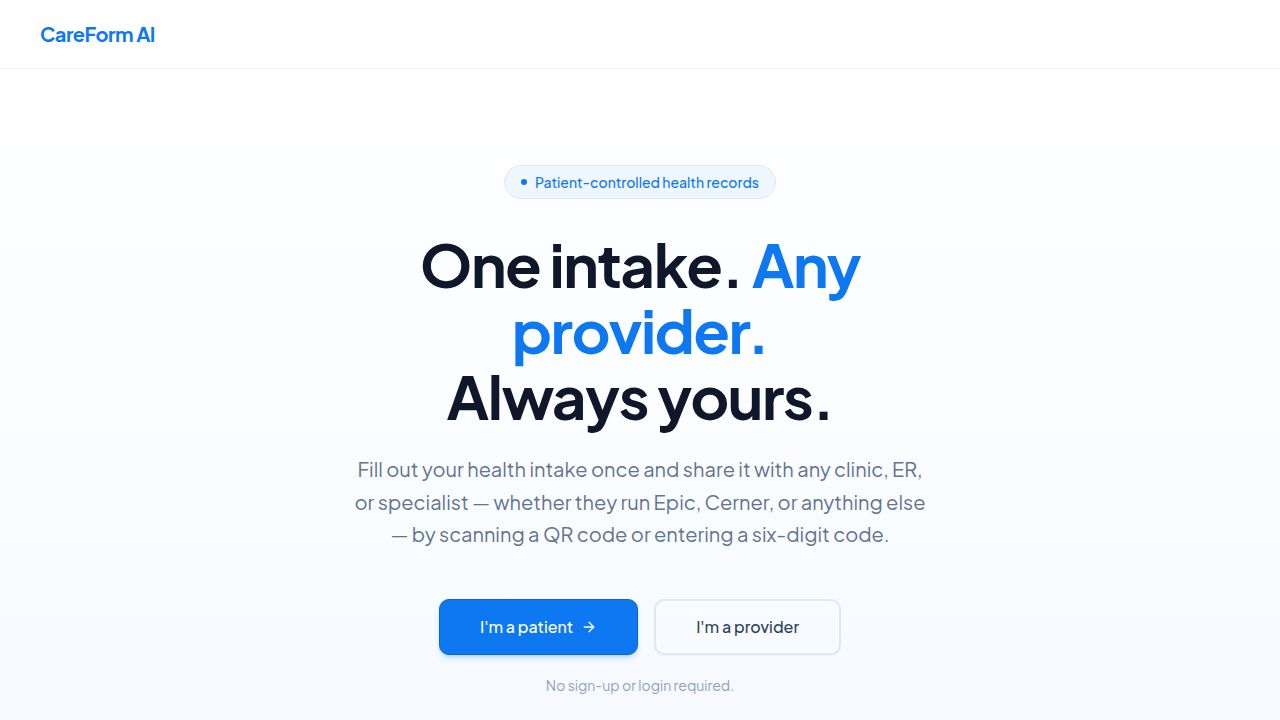
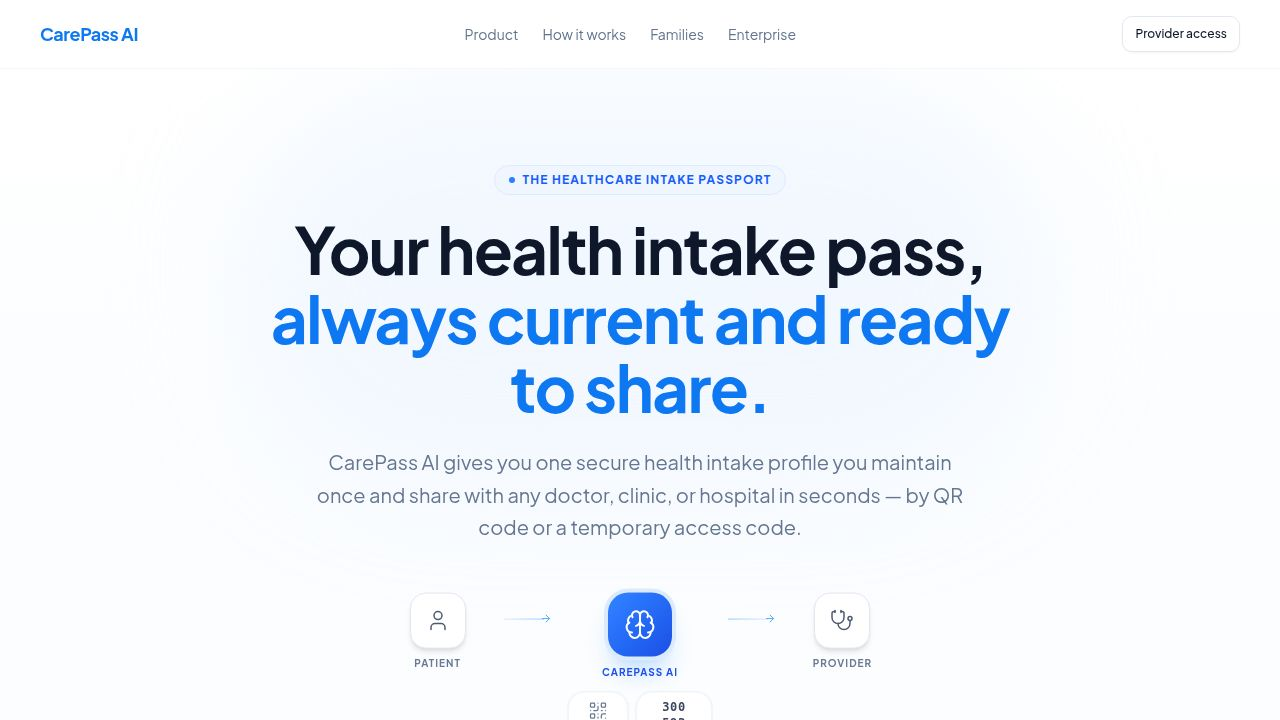
Update provider dashboard to display patient records immediately
Restructure the provider view to bypass the code entry screen and directly display the patient dashboard with demo data, while integrating patient lookup functionality within the dashboard.

Replit-Commit-Author: Agent
Replit-Commit-Session-Id: 3dab9e43-2915-48e6-8461-d6d7ba069e81
Replit-Commit-Checkpoint-Type: full_checkpoint
Replit-Commit-Event-Id: 4ec083df-bec3-460b-95ad-54298c7f44df
Replit-Commit-Screenshot-Url: https://storage.googleapis.com/screenshot-production-us-central1/43d8f750-bc01-4c86-9a3a-e1407c1bddb2/3dab9e43-2915-48e6-8461-d6d7ba069e81/PZgQZCl
Replit-Helium-Checkpoint-Created: true

diff --git a/artifacts/careform/src/pages/provider.tsx b/artifacts/careform/src/pages/provider.tsx
@@ -11,7 +11,7 @@ import {
   AlertTriangle, AlertCircle, ShieldOff, Clock, FileText, Loader2,
   User, Calendar, Pill, HeartPulse, Brain, Sparkles,
   FileCheck, ClipboardList, Copy, Download, Printer, CheckCircle2,
-  Building2, X, CheckCheck,
+  Building2, X, CheckCheck, Search,
 } from "lucide-react";
 
 // ─── Types ────────────────────────────────────────────────────────────────────
@@ -25,6 +25,15 @@ type ImmunizationT = { vaccine: string; date: string; notes: string };
 type ConsentItemT = { agreed: boolean; date: string; signature: string };
 type ApiErrorLike = { data?: { errorCode?: string } };
 type RecentUpdateT = { category: string; label: string; updatedAt: string };
+type LookupProps = {
+  input: string;
+  setInput: (v: string) => void;
+  onSubmit: (e: React.FormEvent) => void;
+  isLoading: boolean;
+  error: { heading: string; body: string; icon: React.ReactNode } | null;
+  isDemo: boolean;
+  onResetDemo: () => void;
+};
 
 // ─── Constants ────────────────────────────────────────────────────────────────
 const TODAY_PATIENTS = [
@@ -617,7 +626,7 @@ function AISummaryPanel({
 }
 
 // ─── Provider Dashboard ───────────────────────────────────────────────────────
-function ProviderDashboard({ data, onClose }: { data: { patient: Patient; expiresAt: string; lastViewedAt: string | null }; onClose: () => void }) {
+function ProviderDashboard({ data, lookup }: { data: { patient: Patient; expiresAt: string; lastViewedAt: string | null }; lookup: LookupProps }) {
   const p = data.patient;
 
   const [activeTab,    setActiveTab]    = useState("demographics");
@@ -684,6 +693,9 @@ function ProviderDashboard({ data, onClose }: { data: { patient: Patient; expire
         <span className="text-[11px] font-semibold bg-blue-50 text-blue-700 border border-blue-100 px-2 py-0.5 rounded-full flex-shrink-0">Provider View</span>
         <span className="hidden md:block text-slate-300 text-sm">|</span>
         <span className="hidden md:block font-semibold text-slate-800 truncate">{p.firstName} {p.lastName}</span>
+        {lookup.isDemo && (
+          <span className="hidden md:inline-flex items-center text-[11px] font-semibold bg-slate-100 text-slate-500 border border-slate-200 px-2 py-0.5 rounded-full flex-shrink-0">Demo</span>
+        )}
         <div className="ml-auto flex items-center gap-1.5 flex-shrink-0">
           <Button variant="outline" size="sm" className="h-8 text-xs gap-1.5 hidden sm:flex" onClick={handleCopyEHR}>
             {copied ? <CheckCheck className="w-3.5 h-3.5 text-emerald-500" /> : <Copy className="w-3.5 h-3.5" />}
@@ -703,9 +715,12 @@ function ProviderDashboard({ data, onClose }: { data: { patient: Patient; expire
             <CheckCircle2 className="w-3.5 h-3.5" />
             <span className="hidden sm:inline">{isReviewed ? "Reviewed ✓" : "Mark Reviewed"}</span>
           </Button>
-          <Button variant="ghost" size="sm" className="h-8 w-8 p-0 text-slate-400" onClick={onClose}>
-            <X className="w-4 h-4" />
-          </Button>
+          {!lookup.isDemo && (
+            <Button variant="ghost" size="sm" className="h-8 text-xs gap-1 text-slate-400 hover:text-slate-600 px-2" onClick={lookup.onResetDemo}>
+              <X className="w-3.5 h-3.5" />
+              <span className="hidden sm:inline">Demo</span>
+            </Button>
+          )}
         </div>
       </header>
 
@@ -713,38 +728,95 @@ function ProviderDashboard({ data, onClose }: { data: { patient: Patient; expire
       <div className="flex-1 flex overflow-hidden">
 
         {/* ── Sidebar ── */}
-        <aside className="w-52 bg-white border-r border-slate-200 flex-col overflow-y-auto flex-shrink-0 hidden lg:flex">
-          <div className="px-4 pt-5 pb-2">
+        <aside className="w-56 bg-white border-r border-slate-200 flex-col flex-shrink-0 hidden lg:flex overflow-hidden">
+          {/* Today's patients */}
+          <div className="px-4 pt-4 pb-2 flex-shrink-0">
             <p className="text-[10px] font-bold uppercase tracking-wider text-slate-400">Today's Patients</p>
             <p className="text-[10px] text-slate-400 mt-0.5">{new Date().toLocaleDateString("en-US", { weekday: "short", month: "short", day: "numeric" })}</p>
           </div>
-          <div className="flex-1 px-2 pb-4 space-y-0.5">
+          <div className="flex-1 px-2 py-1 space-y-0.5 overflow-y-auto min-h-0">
             {TODAY_PATIENTS.map(pt => {
-              const active   = pt.status === "active";
-              const waiting  = pt.status === "waiting";
+              const isMaria   = pt.id === "P001";
+              const isActive  = isMaria && lookup.isDemo;
+              const isWaiting = pt.status === "waiting";
               return (
-                <div key={pt.id} className={`rounded-lg px-3 py-2.5 ${active ? "bg-blue-50 border border-blue-200" : "hover:bg-slate-50"}`}>
+                <button
+                  key={pt.id}
+                  type="button"
+                  onClick={isMaria ? lookup.onResetDemo : undefined}
+                  className={`w-full text-left rounded-lg px-3 py-2.5 transition-colors ${
+                    isActive ? "bg-blue-50 border border-blue-200"
+                    : isMaria ? "hover:bg-slate-50 cursor-pointer"
+                    : "opacity-50 cursor-default"
+                  }`}
+                >
                   <div className="flex items-center gap-2">
                     <div className={`w-7 h-7 rounded-full flex items-center justify-center text-[10px] font-bold flex-shrink-0 ${
-                      active ? "bg-blue-600 text-white" : waiting ? "bg-slate-200 text-slate-600" : "bg-slate-100 text-slate-400"
+                      isActive ? "bg-blue-600 text-white" : isWaiting ? "bg-slate-200 text-slate-600" : "bg-slate-100 text-slate-400"
                     }`}>{pt.initials}</div>
                     <div className="min-w-0">
-                      <p className={`text-xs font-semibold truncate ${active ? "text-blue-800" : "text-slate-700"}`}>{pt.name}</p>
+                      <p className={`text-xs font-semibold truncate ${isActive ? "text-blue-800" : "text-slate-700"}`}>{pt.name}</p>
                       <p className="text-[10px] text-slate-400 truncate">{pt.specialty}</p>
                     </div>
                   </div>
                   <div className="flex items-center justify-between mt-1 pl-9">
                     <span className="text-[10px] text-slate-400">{pt.time}</span>
-                    {active  && <span className="text-[10px] bg-blue-100 text-blue-600 px-1.5 py-0.5 rounded font-medium">Active</span>}
-                    {waiting && <span className="text-[10px] bg-amber-50 text-amber-600 px-1.5 py-0.5 rounded font-medium">Waiting</span>}
+                    {isActive  && <span className="text-[10px] bg-blue-100 text-blue-600 px-1.5 py-0.5 rounded font-medium">Active</span>}
+                    {!isActive && isWaiting && <span className="text-[10px] bg-amber-50 text-amber-600 px-1.5 py-0.5 rounded font-medium">Waiting</span>}
                     {pt.status === "upcoming" && <span className="text-[10px] text-slate-300">Upcoming</span>}
                   </div>
-                </div>
+                </button>
               );
             })}
           </div>
-          <div className="border-t border-slate-100 px-4 py-3 text-[10px] text-slate-400">
-            Pass expires {new Date(data.expiresAt).toLocaleTimeString([], { hour: "2-digit", minute: "2-digit" })}
+
+          {/* Look up a patient */}
+          <div className="border-t border-slate-100 px-3 pt-3 pb-2 flex-shrink-0">
+            <p className="text-[10px] font-bold uppercase tracking-wider text-slate-400 mb-2 flex items-center gap-1.5">
+              <Search className="w-3 h-3" />
+              Look up a patient
+            </p>
+            <form onSubmit={lookup.onSubmit} className="space-y-1.5">
+              <Input
+                value={lookup.input}
+                onChange={e => lookup.setInput(e.target.value.replace(/\D/g, "").slice(0, 6))}
+                placeholder="000000"
+                className="h-8 text-xs font-mono text-center tracking-[0.35em] border-slate-200"
+                inputMode="numeric"
+                autoComplete="off"
+              />
+              <Button
+                type="submit"
+                size="sm"
+                className="w-full h-7 text-xs gap-1.5"
+                disabled={lookup.input.replace(/\D/g, "").length !== 6 || lookup.isLoading}
+              >
+                {lookup.isLoading ? <Loader2 className="w-3 h-3 animate-spin" /> : "Load record"}
+              </Button>
+            </form>
+            {lookup.error && (
+              <div className="mt-2 rounded-lg bg-rose-50 border border-rose-100 px-2.5 py-2">
+                <p className="text-xs font-semibold text-rose-700">{lookup.error.heading}</p>
+                <p className="text-[11px] text-rose-600 mt-0.5">{lookup.error.body}</p>
+              </div>
+            )}
+            {!lookup.isDemo && (
+              <button
+                type="button"
+                onClick={lookup.onResetDemo}
+                className="mt-2 text-[10px] text-slate-400 hover:text-primary transition-colors underline w-full text-center block"
+              >
+                Back to demo patient
+              </button>
+            )}
+          </div>
+
+          {/* Footer */}
+          <div className="border-t border-slate-100 px-4 py-2.5 flex-shrink-0">
+            {lookup.isDemo
+              ? <span className="text-[10px] text-blue-500 font-medium">Demo · Maria Lopez</span>
+              : <span className="text-[10px] text-slate-400">Pass expires {new Date(data.expiresAt).toLocaleTimeString([], { hour: "2-digit", minute: "2-digit" })}</span>
+            }
           </div>
         </aside>
 
@@ -857,71 +929,62 @@ function ProviderDashboard({ data, onClose }: { data: { patient: Patient; expire
   );
 }
 
-// ─── Code Entry (default export) ─────────────────────────────────────────────
+// ─── Provider Page ─────────────────────────────────────────────────────────────
 export default function Provider() {
-  const codeParam = new URLSearchParams(window.location.search).get("code") ?? "";
-  const [inputCode, setInputCode] = useState(codeParam);
-  const [activeCode, setActiveCode] = useState(codeParam);
+  const [demoPatient, setDemoPatient] = useState<Patient | null>(null);
+  const [activeCode,  setActiveCode]  = useState(() => new URLSearchParams(window.location.search).get("code") ?? "");
+  const [lookupInput, setLookupInput] = useState("");
 
-  const { data, isLoading, error, isError } = useValidateCode(activeCode, {
-    query: { queryKey: getValidateCodeQueryKey(activeCode), enabled: !!activeCode, retry: false },
-  });
+  useEffect(() => {
+    fetch("/api/patient/demo")
+      .then(r => { if (!r.ok) throw new Error(); return r.json() as Promise<Patient>; })
+      .then(setDemoPatient)
+      .catch(() => {});
+  }, []);
 
-  const handleSubmit = (e: React.FormEvent) => {
+  const { data: codeData, isLoading: codeLoading, isError: codeIsError, error: codeError } = useValidateCode(
+    activeCode,
+    { query: { queryKey: getValidateCodeQueryKey(activeCode), enabled: !!activeCode, retry: false } },
+  );
+
+  const handleLookupSubmit = useCallback((e: React.FormEvent) => {
     e.preventDefault();
-    const trimmed = inputCode.replace(/\D/g, "").slice(0, 6);
-    if (trimmed.length === 6) setActiveCode(trimmed);
+    const code = lookupInput.replace(/\D/g, "").slice(0, 6);
+    if (code.length === 6) setActiveCode(code);
+  }, [lookupInput]);
+
+  const handleResetDemo = useCallback(() => {
+    setActiveCode("");
+    setLookupInput("");
+  }, []);
+
+  const demoData = demoPatient
+    ? {
+        patient: demoPatient,
+        expiresAt: new Date(Date.now() + 365 * 24 * 3600 * 1000).toISOString(),
+        lastViewedAt: "2026-06-03",
+      }
+    : null;
+
+  const activeData = codeData ?? demoData;
+
+  const lookup: LookupProps = {
+    input: lookupInput,
+    setInput: setLookupInput,
+    onSubmit: handleLookupSubmit,
+    isLoading: codeLoading,
+    error: codeIsError ? getErrorMessage(codeError) : null,
+    isDemo: !codeData,
+    onResetDemo: handleResetDemo,
   };
 
-  if (data) {
-    return <ProviderDashboard data={data} onClose={() => { setActiveCode(""); setInputCode(""); }} />;
+  if (!activeData) {
+    return (
+      <div className="h-dvh bg-slate-50 flex items-center justify-center">
+        <Loader2 className="w-8 h-8 text-blue-500 animate-spin" />
+      </div>
+    );
   }
 
-  const errInfo = isError ? getErrorMessage(error) : null;
-
-  return (
-    <Layout>
-      <div className="max-w-sm mx-auto mt-16 animate-in fade-in slide-in-from-bottom-4 duration-500">
-        <div className="text-center mb-8">
-          <div className="w-14 h-14 bg-blue-50 text-primary rounded-2xl flex items-center justify-center mx-auto mb-4">
-            <FileText className="w-7 h-7" />
-          </div>
-          <h1 className="text-2xl font-bold text-slate-800">Provider Access</h1>
-          <p className="text-slate-500 mt-2 text-sm max-w-xs mx-auto">
-            Enter the 6-digit code shared by the patient to view their intake record.
-          </p>
-        </div>
-
-        <form onSubmit={handleSubmit} className="space-y-4">
-          <Input
-            value={inputCode}
-            onChange={e => setInputCode(e.target.value.replace(/\D/g, "").slice(0, 6))}
-            placeholder="000000"
-            className="text-center text-3xl font-mono tracking-[0.5em] h-16 border-2 focus:border-primary"
-            autoFocus
-            inputMode="numeric"
-          />
-          <Button
-            type="submit"
-            className="w-full h-12 text-base shadow-sm shadow-primary/20"
-            disabled={inputCode.replace(/\D/g, "").length !== 6 || isLoading}
-          >
-            {isLoading ? <Loader2 className="w-4 h-4 animate-spin" /> : "View Patient Record"}
-          </Button>
-        </form>
-
-        {errInfo && (
-          <div className="mt-4 bg-rose-50 border border-rose-200 rounded-xl px-4 py-3 flex items-start gap-3 text-sm">
-            <span className="text-rose-500 mt-0.5 flex-shrink-0">{errInfo.icon}</span>
-            <div>
-              <p className="font-semibold text-rose-700">{errInfo.heading}</p>
-              <p className="text-rose-600 mt-0.5 text-xs">{errInfo.body}</p>
-            </div>
-          </div>
-        )}
-
-        <p className="text-center text-xs text-slate-400 mt-6">All patient data is read-only on this side.</p>
-      </div>
-    </Layout>
-  );
+  return <ProviderDashboard data={activeData} lookup={lookup} />;
 }